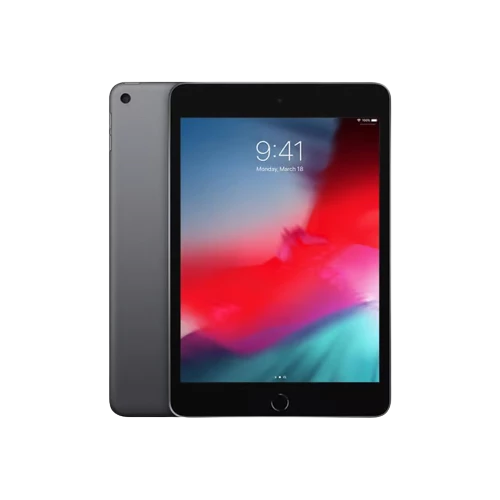
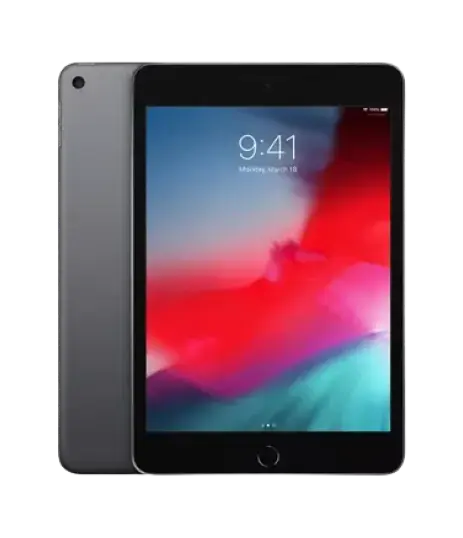
fix(DEV-TP-89): normalize phone and tablet image dimensions

diff --git a/src/components/molecules/ProductCard/ProductCard.module.scss b/src/components/molecules/ProductCard/ProductCard.module.scss
@@ -23,8 +23,8 @@
 }
 
 .image {
-  max-width: 100%;
-  max-height: 196px;
+  width: 100%;
+  height: 100%;
   object-fit: contain;
 }
 
